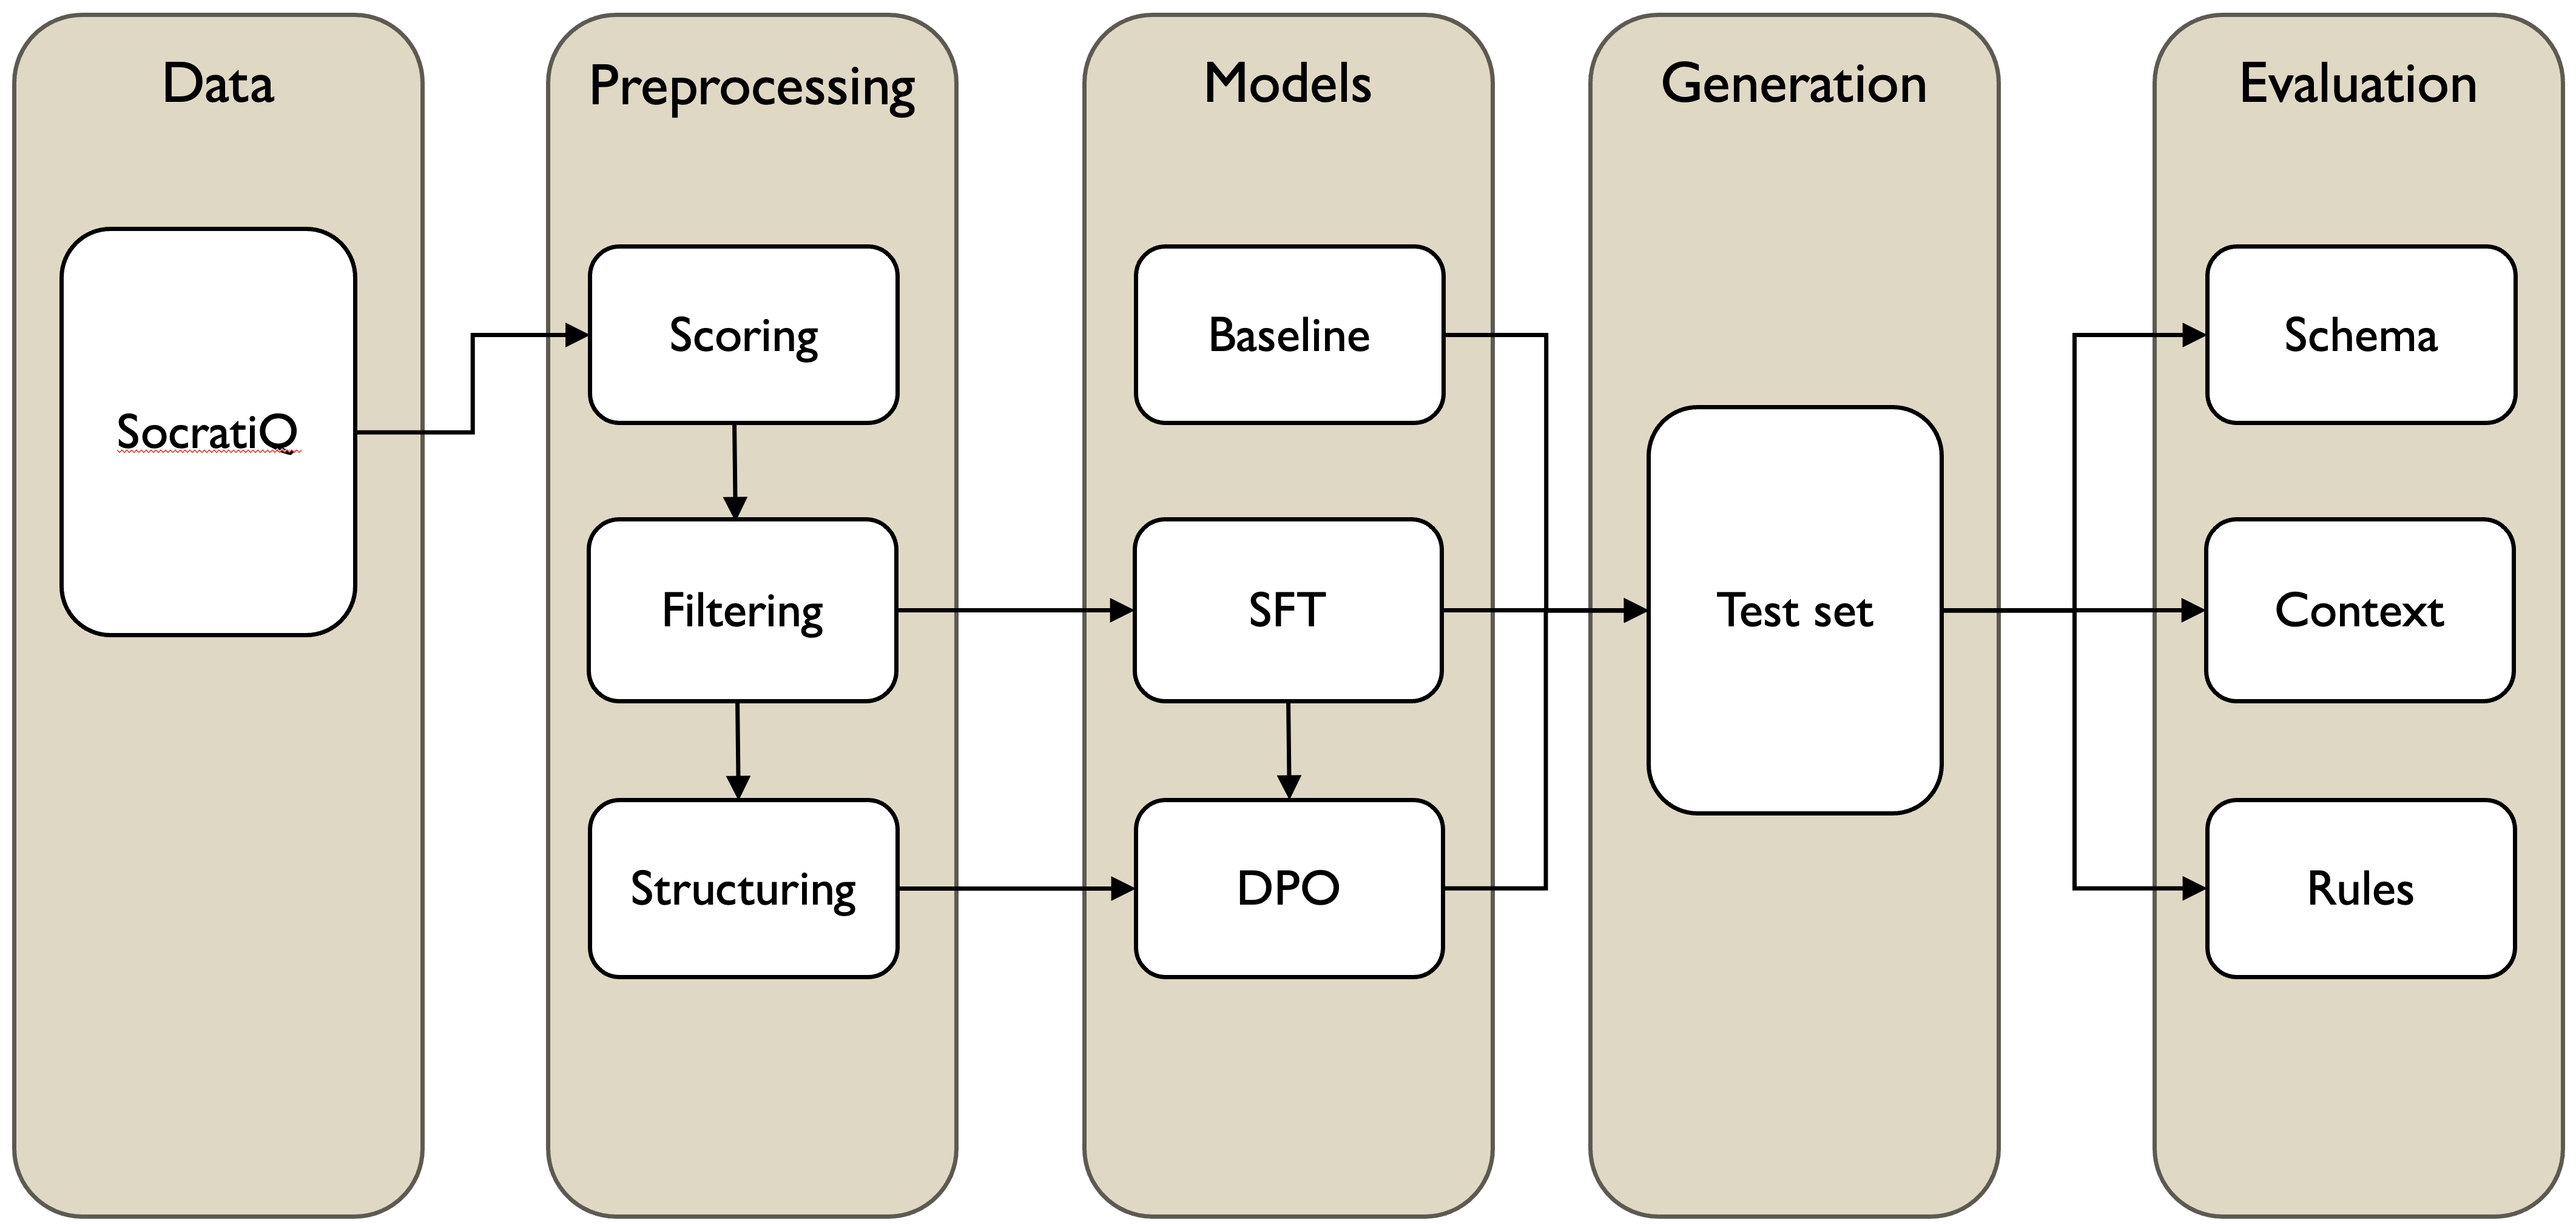
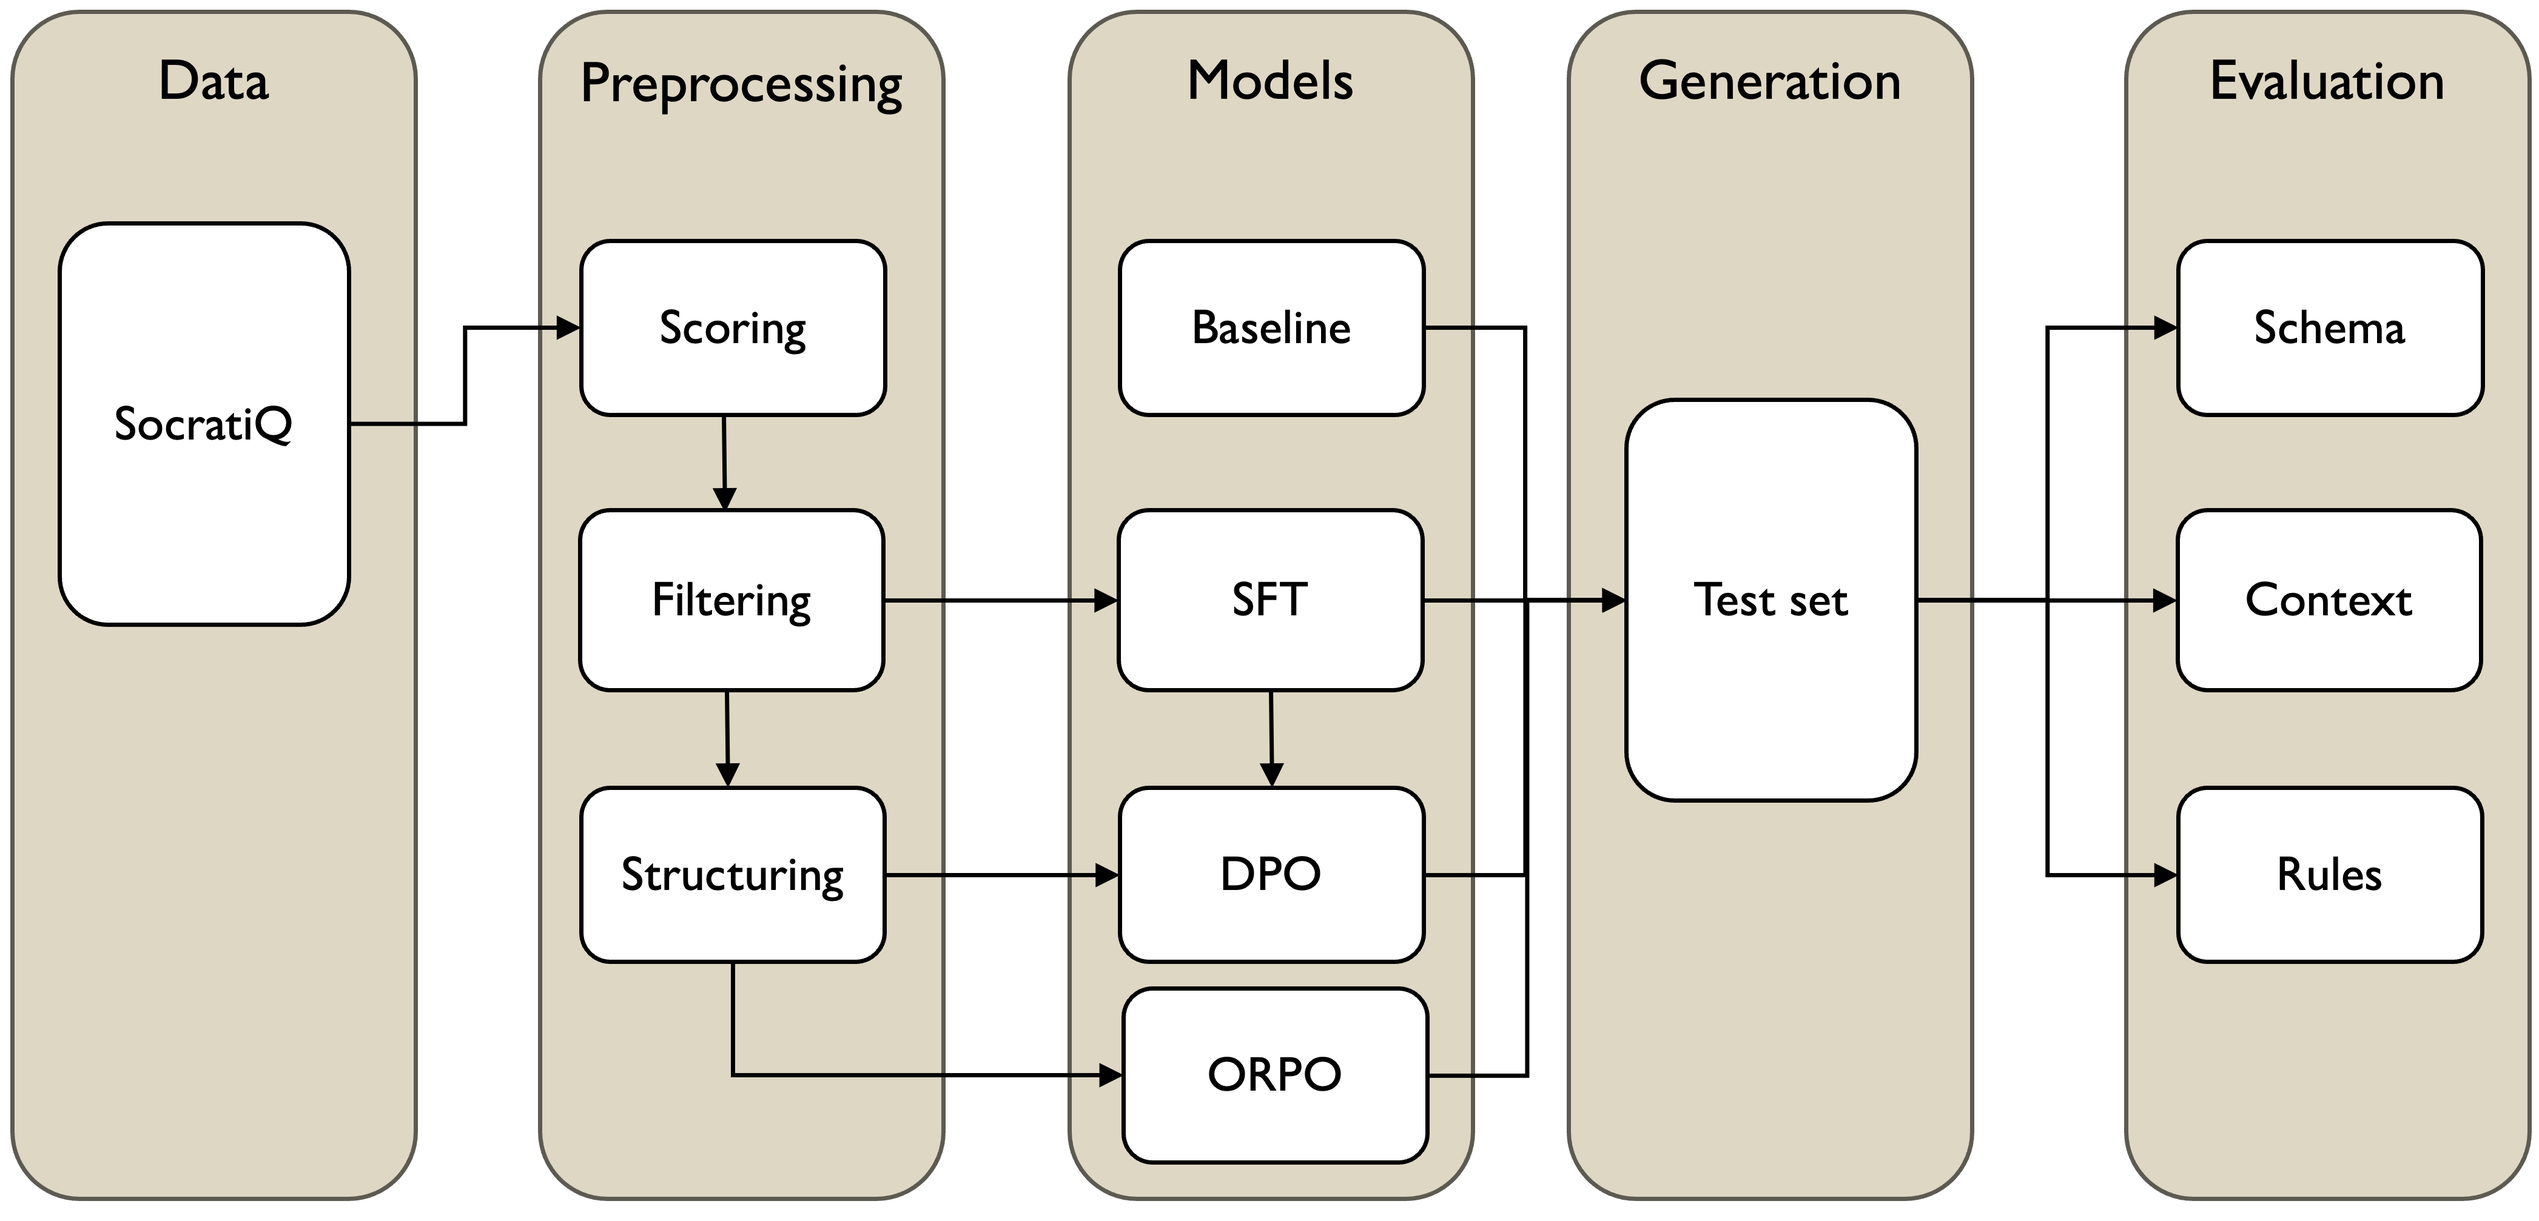
update README.md

diff --git a/README.md b/README.md
@@ -106,8 +106,8 @@ Questions are generated for the interventions of the following dataset: [validat
 
 ### 3. Training 
 
-To fine-tune our basemodel we have two approaches. First we started with a supervised fine-tuning approach to foster the basics of critical question generation. 
-Second we used this SFT trained model to train it with a reinforcement learning approach called Direct Preference Optimization. 
+To fine-tune our basemodel we have three approaches. First we started with a supervised fine-tuning approach to foster the basics of critical question generation. 
+Second we used this SFT trained model to train it with a reinforcement learning approach called Direct Preference Optimization. And third we use Odds Ratio Preference Optimization which is as well a reinforcement learning approach.
 
 #### 3.1 Supervised Fine-tuning [Notebook SFT Training](4_Training_1_SFT.ipynb)
 
@@ -156,83 +156,65 @@ Your Language Model is Secretly a Reward Model](https://arxiv.org/pdf/2305.18290
 
 
 ### 4. Evaluation - [Notebook Evaluation](2a_Baseline_Evaluation.ipynb)
-
-We define evaluation metrics and generate scores for the baseline models and the fine-tuned model. We evaluate the model
-with the following metrices:
-
-- Semantic Similarity --> similarity between generated question and argumentative input text
-- BLEURT: [Here](https://github.com/google-research/bleurt)
-- ChatGPT 4.0 ->
-- Qualitative Sample Analysis --> (Two experts judge the generated questions)
-
+This notebook evaluates generated questions based on Walton's argumentation schemes. It scores question quality using a combination of rule-based and model-based metrics.
+- **Frameworks Used**:
+  - `spaCy`: – NLP pipeline for linguistic features
+  - `nltk`_ – Tokenization and preprocessing, framenet and wordnet
 ---
 
 ## Project Structure
 
-```
-.
-├── Data/
-│   ├── Raw/                              # Raw datasets
-│   └── Processed/                        # Processed datasets
-├── Doc/                                  # Documentation
-├── Evluation/                
-│   ├── Results/                          # Files with CQs from generation
-│   ├── Scored/                           # Result scores from evaluations
-├── Logs/                                 # Logs from all Notebooks               
-├── .gitignore
-├── 1_a_Preprocessing.ipynb               # Preprocess Dataset and generate Training Data
-├── 1_b_Generate_DPO_Dataset.ipynb        # Generate preference dataset for reinforcement learning
-├── 2_Question_Generation.ipynb           # Used to generate question for the validation dataset for all models
-├── 3_Evaluation.ipynb                    # Generates evaluation files for given quetions
-├── 4_Training_1_SFT.ipynb                # SFT Training
-├── 4_Training_2_DPO.ipynb                # DPO Training
-├── 4_Training_3_DPO_from_SFT.ipynb       # DPO from SFT Training
-├── 4_Training_4_ORPO.ipynb               # OPRO Training
-├── 4_Training_5_ORPO_from_SFT.ipynb      # ORPO from SFT Training
-├── 5_Evaluation_Analytics.ipynb          # Analyse all evaluations
-├── README.md
-```
-
-.
-├── [Data/](./Data/)
-│   ├── [Raw/](./Data/Raw/)  
-│   └── [Processed/](./Data/Processed/)
-├── [Doc/](./Doc/)
-├── [Evluation/](./Evluation/)
-│   ├── [Results/](./Evluation/Results/)
-│   ├── [Scored/](./Evluation/Scored/)
-├── [Logs/](./Logs/)
-├── [.gitignore](./.gitignore)
-├── [1_a_Preprocessing.ipynb](./1_a_Preprocessing.ipynb)
-├── [1_b_Generate_DPO_Dataset.ipynb](./1_b_Generate_DPO_Dataset.ipynb)
-├── [2_Question_Generation.ipynb](./2_Question_Generation.ipynb)
-├── [3_Evaluation.ipynb](./3_Evaluation.ipynb)
-├── [4_Training_1_SFT.ipynb](./4_Training_1_SFT.ipynb)
-├── [4_Training_2_DPO.ipynb](./4_Training_2_DPO.ipynb)
-├── [4_Training_3_DPO_from_SFT.ipynb](./4_Training_3_DPO_from_SFT.ipynb)
-├── [4_Training_4_ORPO.ipynb](./4_Training_4_ORPO.ipynb)
-├── [4_Training_5_ORPO_from_SFT.ipynb](./4_Training_5_ORPO_from_SFT.ipynb)
-├── [5_Evaluation_Analytics.ipynb](./5_Evaluation_Analytics.ipynb)
-├── [README.md](./README.md)
+- [Data/](./Data/)  
+  &nbsp;&nbsp;&nbsp;&nbsp;- [Raw/](./Data/Raw/)  
+  &nbsp;&nbsp;&nbsp;&nbsp;- [Processed/](./Data/Processed/)  
+- [Doc/](./Doc/)  
+- [Evluation/](./Evluation/)  
+  &nbsp;&nbsp;&nbsp;&nbsp;- [Results/](./Evluation/Results/)  
+  &nbsp;&nbsp;&nbsp;&nbsp;- [Scored/](./Evluation/Scored/)  
+- [Logs/](./Logs/)  
+- [.gitignore](./.gitignore)  
+- [1_a_Preprocessing.ipynb](./1_a_Preprocessing.ipynb)  
+- [1_b_Generate_DPO_Dataset.ipynb](./1_b_Generate_DPO_Dataset.ipynb)  
+- [2_Question_Generation.ipynb](./2_Question_Generation.ipynb)  
+- [3_Evaluation.ipynb](./3_Evaluation.ipynb)  
+- [4_Training_1_SFT.ipynb](./4_Training_1_SFT.ipynb)  
+- [4_Training_2_DPO.ipynb](./4_Training_2_DPO.ipynb)  
+- [4_Training_3_DPO_from_SFT.ipynb](./4_Training_3_DPO_from_SFT.ipynb)  
+- [4_Training_4_ORPO.ipynb](./4_Training_4_ORPO.ipynb)  
+- [4_Training_5_ORPO_from_SFT.ipynb](./4_Training_5_ORPO_from_SFT.ipynb)  
+- [5_Evaluation_Analytics.ipynb](./5_Evaluation_Analytics.ipynb)  
+- [README.md](./README.md)   
 
 
 ---
 
 ## Setup Instructions
-
-There is no pre Setup needed and you can directly open the notebooks in google colab. Just follow the steps to run the project.
-
+- For all notebooks you need to create an access token for GitHub. This access token has to be placed in Google Colab as a secret with the name "GITHUB".
+- To access the baseline model `meta/Llama-3.1-8B-Instruct` you have to register for Meta Llama 3.1 Model Family on Hugging Face. Then create an access token in Hugging Face and place it in Google colab as secret with the name "HF_TOKEN"
+- All notebooks are running in google colab and therefore you do not need a requirements.txt to install
 
 ---
 
 ## Running the Project
-
 Follow these notebooks in order:
+```
+1. 1_a_Preprocessing.ipynb                      - Data preprocessing, ~4 hours
+2. 1_b_Generate_DPO_Dataset.ipynb.ipynb         - Generate preference dataset, ~3 hours 
+3. 2_Question_Generation.ipynb                  - Establishing a baseline model, ~1 hour
+4. 3_Evaluation.ipynb                           - Evaluation of baseline model, ~10 minutes
+5. 4_Training_1_SFT.ipynb                       - SFT fine-tuning, ~1 hour
+6. 3_Evaluation.ipynb                           - Evaluation of SFT model, ~10 minutes
+7. 4_Training_2_DPO.ipynb                       - DPO fine-tuning, ~1 hour
+8. 3_Evaluation.ipynb                           - Evaluation of DPO model, ~10 minutes
+9. 4_Training_3_DPO_from_SFT.ipynb              - DPO from SFT fine-tuning, ~1 hour
+10. 3_Evaluation.ipynb                          - Evaluation of DPO from SFT model, ~10 minutes
+11. 4_Training_4_ORPO.ipynb                     - OPRO fine-tuning, ~1 hour
+12. 3_Evaluation.ipynb                          - Evaluation of ORPO model, ~10 minutes
+13. 4_Training_5_ORPO_from_SFT.ipynb            - ORPO from SFT fine-tuning, ~1 hour
+14. 3_Evaluation.ipynb                          - Evaluation of ORPO from SFT model, ~10 minutes
+15. 5_Evaluation_Analytics.ipynb                - Analyze all evaluation files, ~10 minutes
+```
 
-1. `1_Preprocessing.ipynb` - Data preprocessing
-2. `2_Baseline.ipynb` - Establishing a baseline model
-3. `3_Training.ipynb` - Model training
-4. `4_Evaluation.ipynb` - Evaluating model performance
 
 ---
 
@@ -263,5 +245,4 @@ We were able to beat the baseline by more than 30% with our SFT trained model.
 - Ruiz-Dolz, Ramon, and John Lawrence. “Detecting Argumentative Fallacies in the Wild: Problems and Limitations of Large Language Models.” Proceedings of the 10th Workshop on Argument Mining, Association for Computational Linguistics, 2023, pp. 1–10. DOI.org (Crossref), https://doi.org/10.18653/v1/2023.argmining-1.1.
 - Sellam, Thibault, et al. “BLEURT: Learning Robust Metrics for Text Generation.” Proceedings of the 58th Annual Meeting of the Association for Computational Linguistics, Association for Computational Linguistics, 2020, pp. 7881–92. DOI.org (Crossref), https://doi.org/10.18653/v1/2020.acl-main.704.
 - Rafailov, Rafael, et al. Direct Preference Optimization: Your Language Model Is Secretly a Reward Model. arXiv:2305.18290, arXiv, 29 July 2024. arXiv.org, https://doi.org/10.48550/arXiv.2305.18290.
-
 ---
